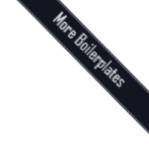
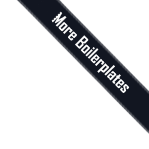
v1.0.7

diff --git a/index.html b/index.html
@@ -14,17 +14,14 @@
 </head>
 <body>
     <a  href="https://github.com/straight-code/wavebg-boilerplate" target="_blank"><img style="position: absolute; top: 0; left: 0; border: 0;" src="./assets/forkGithub.png"
-        alt="Fork me on GitHub" data-canonical-src="https://wavebg.netlify.app/assets/forkGithub.png"></a>   
+        alt="Fork me on GitHub" data-canonical-src="https://wavebg-boilerplate.netlify.app/assets/forkGithub.png"></a>   
 
-        <div class="box">
-            <div class="ribbon">
-                <span>
-                    <a href="./boilerplates/index.html" style="color: #fff; ">
-                    Boilerplates
-                </a>
-            </span>
-        </div>
-      </div>  
+    <a  href="./boilerplates/index.html" target="_blank"><img style="position: absolute; top: 0; right: 0; border: 0;" src="./assets/boilerplates.png"
+            alt="More Boilerplates" data-canonical-src="https://wavebg-boilerplate.netlify.app/assets/boilerplates.png"></a>   
+    
+    <a  href="https://wavebg.netlify.app" target="_blank"><img style="position: absolute; bottom: 0; right: 0; border: 0;" src="./assets/wavebg.png"
+                alt="Go to wavebg" data-canonical-src="https://wavebg-boilerplate.netlify.app/assets/boilerplates.png"></a>   
+ 
     
     <h1 class="title">wavebg-boilerplate</h1>
     <h3 class="sub-title">Made by straight-code</h3>
